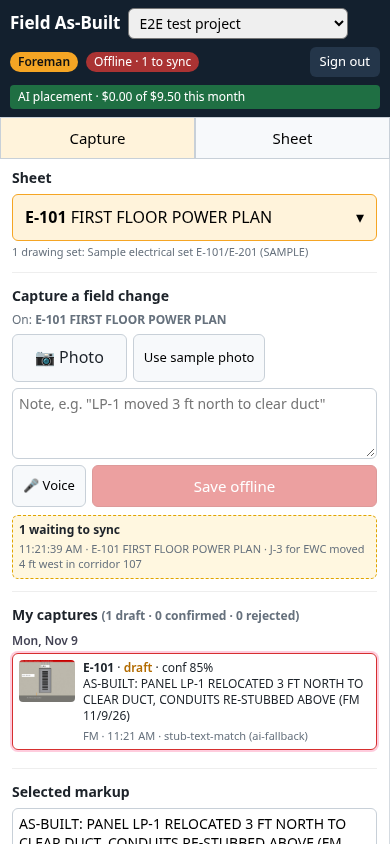
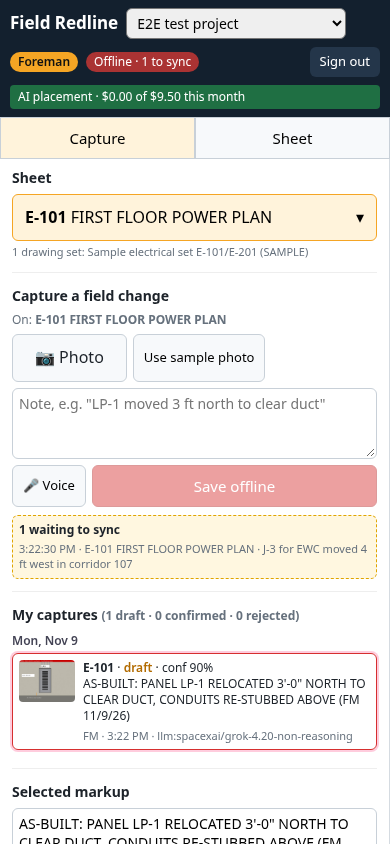
Rename product to Field Redline (UI, titles, meta, sample/demo assets, export labels, docs); infra ids unchanged

diff --git a/app/src/Landing.jsx b/app/src/Landing.jsx
@@ -35,14 +35,14 @@ export default function Landing() {
   return (
     <div className="lp">
       <nav className="lp-nav">
-        <div className="brand">Field As-Built</div>
+        <div className="brand">Field Redline</div>
         <a href="/demo" className="lp-link">Demo</a>
         <a href="#pilot" className="lp-link">Request a pilot</a>
         <a href="/app" className="lp-link signin" data-testid="sign-in-link">Sign in</a>
       </nav>
       <header className="lp-hero">
         <h1>Snap a photo in the field.<br />Get the redline on the drawing.</h1>
-        <p>Field As-Built turns a foreman's photo and a one-line note into a clouded redline, placed on the right sheet and ready for the PE to confirm. Your as-builts stay current all job long, instead of being rebuilt from memory at closeout.</p>
+        <p>Field Redline turns a foreman's photo and a one-line note into a clouded redline, placed on the right sheet and ready for the PE to confirm. Your as-builts stay current all job long, instead of being rebuilt from memory at closeout.</p>
         <div className="lp-cta">
           <a className="btn primary big" href="/demo" data-testid="try-demo">Try the demo</a>
           <a className="btn big" href="#pilot">Request a pilot</a>
@@ -52,7 +52,7 @@ export default function Landing() {
 
       <section className="lp-steps">
         <div><b>1 · Photo + note</b><p>The foreman picks the sheet on their phone, takes a photo, and says or types what changed: "LP-1 moved 3 ft north to clear duct." It works with no signal and syncs later.</p></div>
-        <div><b>2 · Redline drafted on the drawing</b><p>Field As-Built finds the spot on the sheet and drafts a cloud and callout. Nothing hits the record set until a PE drags it into place and confirms.</p></div>
+        <div><b>2 · Redline drafted on the drawing</b><p>Field Redline finds the spot on the sheet and drafts a cloud and callout. Nothing hits the record set until a PE drags it into place and confirms.</p></div>
         <div><b>3 · Continuous as-builts</b><p>Export the full set or a single sheet as a PDF with real annotations, plus a markup log grouped by capture date and a CSV. Closeout is a download, not a scramble.</p></div>
       </section>
 
@@ -76,7 +76,7 @@ export default function Landing() {
         <p className="muted">Pilots run on one active project. We load your current drawing set and your field team starts capturing the same week.</p>
         <PilotForm />
       </section>
-      <footer className="lp-foot muted small">© 2026 Field As-Built · <a href="/demo">Demo</a> · <a href="/app">Sign in</a></footer>
+      <footer className="lp-foot muted small">© 2026 Field Redline · <a href="/demo">Demo</a> · <a href="/app">Sign in</a></footer>
     </div>
   );
 }

diff --git a/app/server/exportPdf.js b/app/server/exportPdf.js
@@ -88,7 +88,7 @@ export async function exportMarkupsPdf(pdfBytes, markups, opts = {}) {
     if (opts.pages && !opts.pages.includes(m.page)) continue;
     const c = m.cloud, co = m.callout; const bump = Math.max(5, Math.min(12, Math.min(c.w, c.h) / 6));
     const now = pdfDate(new Date(m.confirmedAt || m.createdAt || Date.now()));
-    const author = m.author || (who(opts.people, m.capturedBy) ? `${who(opts.people, m.capturedBy)} (Field As-Built)` : 'Field As-Built');
+    const author = m.author || (who(opts.people, m.capturedBy) ? `${who(opts.people, m.capturedBy)} (Field Redline)` : 'Field Redline');
     const capDay = dayKey(m.capturedAt || m.createdAt, opts.tz || 'America/New_York');
     const status = m.status === 'confirmed' ? 'Confirmed' : m.status === 'rejected' ? 'Rejected' : 'Draft';
     // --- Cloud polygon
@@ -159,6 +159,6 @@ export async function exportMarkupsPdf(pdfBytes, markups, opts = {}) {
   if (opts.log) await addLogPages(doc, markups, { tz: opts.tz || 'America/New_York', people: opts.people, title: opts.title || 'As-built record set', scopeLabel: opts.scopeLabel || 'Full set' });
   if (opts.title) doc.setSubject(opts.title);
   doc.setModificationDate(new Date());
-  doc.setProducer('Field As-Built prototype (pdf-lib)');
+  doc.setProducer('Field Redline prototype (pdf-lib)');
   return { bytes: await doc.save(), count };
 }

diff --git a/app/src/App.jsx b/app/src/App.jsx
@@ -40,7 +40,7 @@ function Login() {
   return (
     <div className="login">
       <form onSubmit={go} data-testid="login-form">
-        <div className="brand big">Field As-Built</div>
+        <div className="brand big">Field Redline</div>
         <div className="muted small">Sign in. Accounts are invite-only; ask your admin for access.</div>
         <input type="email" autoComplete="username" placeholder="Email" value={email} onChange={(e) => setEmail(e.target.value)} data-testid="login-email" required />
         <input type="password" autoComplete="current-password" placeholder="Password" value={pw} onChange={(e) => setPw(e.target.value)} data-testid="login-password" required />
@@ -200,7 +200,7 @@ function Workspace({ user }) {
   return (
     <div className="app">
       <header>
-        <div className="brand">Field As-Built</div>
+        <div className="brand">Field Redline</div>
         <select className="projsel" value={pid || ''} onChange={(e) => setPid(e.target.value)} data-testid="project-select">
           {!me?.projects?.length && <option value="">No projects</option>}
           {me?.projects?.map((p) => <option key={p.id} value={p.id}>{p.name}</option>)}

diff --git a/app/src/main.jsx b/app/src/main.jsx
@@ -9,8 +9,8 @@ const p = location.pathname.replace(/\/+$/, '') || '/';
 const isApp = p === '/app' || p.startsWith('/app/');
 if (isApp) { // the signed-in app is never indexed; public pages (/ and /demo) are
   const m = document.createElement('meta'); m.name = 'robots'; m.content = 'noindex, nofollow, noarchive'; document.head.appendChild(m);
-  document.title = 'Field As-Built — sign in';
-} else if (p === '/demo') document.title = 'Field As-Built — live demo (sample data)';
+  document.title = 'Field Redline — sign in';
+} else if (p === '/demo') document.title = 'Field Redline — live demo (sample data)';
 const Page = isApp ? App : p === '/demo' ? Demo : Landing;
 createRoot(document.getElementById('root')).render(<Suspense fallback={<div className="empty">Loading…</div>}><Page /></Suspense>);
 if ('serviceWorker' in navigator && location.hostname !== 'localhost' && isApp) navigator.serviceWorker.register('/sw.js').catch(() => {});

diff --git a/app/index.html b/app/index.html
@@ -1,5 +1,5 @@
 <!doctype html>
 <html lang="en"><head><meta charset="UTF-8" /><meta name="viewport" content="width=device-width, initial-scale=1, viewport-fit=cover" />
 <meta name="theme-color" content="#13202e" />
-<title>Field As-Built: photo to redline, continuous as-builts</title><meta name="description" content="Field As-Built turns a field photo and a one-line note into a redline on the right drawing sheet, so as-builts stay current all job long. Built for electrical subs, MEP and civil subs, and GCs." /></head>
+<title>Field Redline: photo to redline, continuous as-builts</title><meta name="description" content="Field Redline turns a field photo and a one-line note into a redline on the right drawing sheet, so as-builts stay current all job long. Built for electrical subs, MEP and civil subs, and GCs." /></head>
 <body><div id="root"></div><script type="module" src="/src/main.jsx"></script></body></html>

diff --git a/app/server/app.js b/app/server/app.js
@@ -157,7 +157,7 @@ export function createApp() {
       if (mtd == null) { mode = 'stub'; stubReason = 'spend-check-failed'; stubNote = 'Could not read AI spend, so AI is paused for safety;'; }
       else if (mtd >= SPEND_CAP_USD) { mode = 'stub'; stubReason = 'monthly-cap'; stubNote = `AI paused: month-to-date AI spend $${mtd.toFixed(2)} reached the $${SPEND_CAP_USD.toFixed(2)} cap;`; }
     }
-    const t0 = Date.now(); const initials = (q.user.user_metadata?.initials || 'FAB').slice(0, 4);
+    const t0 = Date.now(); const initials = (q.user.user_metadata?.initials || 'FR').slice(0, 4);
     const s = await suggest({ sheet, note, photoBytes: q.file.buffer, photoMime: q.file.mimetype, initials, mode, provider, stubReason, stubNote });
     if (mode === 'llm') {
       const u = s.usage;

diff --git a/app/server/index.js b/app/server/index.js
@@ -10,4 +10,4 @@ const PORT = +process.env.PORT || 4317;
 const app = createApp();
 const dist = path.join(ROOT, 'dist');
 if (fs.existsSync(dist)) { app.use(express.static(dist)); app.get(/^\/(?!api).*/, (_q, r) => r.sendFile(path.join(dist, 'index.html'))); }
-app.listen(PORT, '0.0.0.0', () => console.log(`Field As-Built prototype on http://localhost:${PORT} (placement: ${placementMode()}, store: ${process.env.SUPABASE_URL ? 'supabase' : 'json'})`));
+app.listen(PORT, '0.0.0.0', () => console.log(`Field Redline prototype on http://localhost:${PORT} (placement: ${placementMode()}, store: ${process.env.SUPABASE_URL ? 'supabase' : 'json'})`));

diff --git a/app/src/Demo.jsx b/app/src/Demo.jsx
@@ -40,7 +40,7 @@ export default function Demo() {
   return (
     <div className="app demo">
       <header>
-        <a className="brand" href="/">Field As-Built</a>
+        <a className="brand" href="/">Field Redline</a>
         <span className="rolechip">LIVE DEMO · sample data</span>
         <span className="small">{d.project.name}</span>
         <a className="hdrbtn right btn" href="/#pilot" data-testid="demo-pilot">Request a pilot</a>

diff --git a/scripts/make_sample.py b/scripts/make_sample.py
@@ -101,7 +101,7 @@ def lighting(c):
     c.setFont("Helvetica", 8); c.drawString(80, 150, "LIGHTING CONTROL: OCC SENSOR IN EACH ROOM. EMERGENCY FIXTURES ON CKT LP-1/20.")
 
 pdf = canvas.Canvas(os.path.join(OUT, "sample-electrical-plan-E101-E201.pdf"), pagesize=(W, H))
-pdf.setTitle("SAMPLE electrical plans (fake) - Field As-Built demo"); pdf.setAuthor("Field As-Built demo generator")
+pdf.setTitle("SAMPLE electrical plans (fake) - Field Redline demo"); pdf.setAuthor("Field Redline demo generator")
 power(pdf); pdf.showPage(); lighting(pdf); pdf.showPage(); pdf.save()
 
 # Fake "field photo": stylized electrical room wall with a panel, labeled SAMPLE
@@ -127,6 +127,6 @@ d.rectangle([60, 300, 330, 360], fill=(255, 255, 255)); d.text((72, 312), "ELEC 
 d.line([(380, 760), (380, 700)], fill=(255, 140, 0), width=4); d.text((150, 790), "~3'-0\" from orig. location", fill=(255, 255, 255), font=fs)
 img = img.filter(ImageFilter.GaussianBlur(0.8))
 d = ImageDraw.Draw(img)
-d.rectangle([0, 0, 1200, 44], fill=(200, 0, 0)); d.text((14, 6), "SAMPLE FIELD PHOTO (synthetic) - Field As-Built demo", fill=(255, 255, 255), font=fs)
+d.rectangle([0, 0, 1200, 44], fill=(200, 0, 0)); d.text((14, 6), "SAMPLE FIELD PHOTO (synthetic) - Field Redline demo", fill=(255, 255, 255), font=fs)
 img.save(os.path.join(OUT, "sample-field-photo-LP1.jpg"), quality=85)
 print("ok")

diff --git a/app/scripts/verify_e2e.py b/app/scripts/verify_e2e.py
@@ -1,4 +1,4 @@
-"""End-to-end check of Field As-Built through the real UI (headless Chrome), as real signed-in users.
+"""End-to-end check of Field Redline through the real UI (headless Chrome), as real signed-in users.
  auth gate + noindex + invite-only signup -> PE: project + sample set -> Foreman (phone viewport): sheet picker,
  capture (AI or stub per server config), offline capture queued in IndexedDB then synced -> role checks ->
  PE: drag + confirm / reject -> export full-set PDF, per-sheet PDF, markup CSV -> verify annotations + log page.

diff --git a/docs/INFRA.md b/docs/INFRA.md
@@ -1,22 +1,22 @@
-# Field As-Built — provisioned infra
+# Field Redline — provisioned infra
 
-_Last updated 9 Nov 2026, 11:25 AM EST. Running cost: $0/mo. Model spend is approved up to $10/mo, but $0.00 has been spent so far. Secrets are not in this file or the repo. They live in Vercel (sensitive env vars) and in `/workspace/field-as-built/app/data/secrets/` and `/workspace/field-as-built/.env.local` on the box (both gitignored)._
+_Last updated 9 Nov 2026, 3:30 PM EST. **Product renamed to Field Redline** (9 Nov, 3:17 PM). Infra identifiers deliberately keep the old slug: Vercel project `field-as-built`, URL field-as-built.vercel.app, Supabase project name `field-as-built`, Origin repo `matthew-fronczak/field-as-built`, Stripe product metadata `app=field-as-built`, env vars `FAB_*`, and the package name. Running cost: $0/mo. Model spend is approved up to $10/mo, but $0.00 has been spent so far. Secrets are not in this file or the repo. They live in Vercel (sensitive env vars) and in `/workspace/field-as-built/app/data/secrets/` and `/workspace/field-as-built/.env.local` on the box (both gitignored)._
 
 | Resource | ID / location | Notes |
 |---|---|---|
 | **Public website** | https://field-as-built.vercel.app (landing) · https://field-as-built.vercel.app/demo (read-only demo) | No account needed, and both pages can be indexed by search engines. The landing page has a "Request a pilot" form. The demo is static files (`public/demo/*`, built by `app/scripts/build_demo.mjs` from the SAMPLE E-101/E-201 set only). Its "Try a capture" runs text matching in the visitor's browser: no API, DB, storage or AI calls |
 | **App (private)** | https://field-as-built.vercel.app/app | **Login required.** Supabase Auth email/password, invite-only. Every `/api` route except `public-config`, `leads` (insert-only) and the signed Stripe webhook returns 401 without a session. `/app` and `/api/*` send `X-Robots-Tag: noindex` and `/app` adds a noindex meta tag. `robots.txt` disallows `/app` and `/api/`. The team alias and per-deployment URLs sit behind Vercel login |
 | Leads | table `public.leads` (`supabase/migrations/20261109161000_leads.sql`) | RLS: anon/authenticated **insert only**. Nobody can read through the API (anon gets 401, signed-in users 403); read leads in the Supabase dashboard / SQL editor. Rate limits: DB trigger caps 3 per email per hour and 30 site-wide per 10 min; the API caps 20 accepted per IP per hour (per instance) and has a honeypot field. Rows with `source='e2e'` or a company of "E2E (automated test)" come from the test |
-| Vercel project `field-as-built` | `prj_WexrryY5Qa2IUWY2LbXEO35NfywR`, team `gc-desk-ai` (`team_vwGVMFO5MbAhq0CqGTy98PjC`, Hobby) | Separate from GC Desk AI (`prj_EjWzKVglwNOPYxvmSHQlmma8R14I`, untouched). Deployed by file upload (no Git link). Latest prod deployment `dpl_342mg9DwQA7VTmA4VcoX8W1Sj3h3` |
+| Vercel project `field-as-built` | `prj_WexrryY5Qa2IUWY2LbXEO35NfywR`, team `gc-desk-ai` (`team_vwGVMFO5MbAhq0CqGTy98PjC`, Hobby) | Separate from GC Desk AI (`prj_EjWzKVglwNOPYxvmSHQlmma8R14I`, untouched). Deployed by file upload (no Git link). Latest prod deployment `dpl_8kkof6dZgCKpS5jE1SngGEnS2B3A` |
 | Vercel env vars (field-as-built only) | `SUPABASE_URL`, `SUPABASE_PUBLISHABLE_KEY`, `FAB_PLACEMENT=ai`, `STRIPE_WEBHOOK_SECRET` (sensitive). Leftover and unused: `FAB_DEMO_*` (the demo user is now banned) | AI goes through Vercel AI Gateway with the deployment's **OIDC token**. There's no AI Gateway API key and no `XAI_API_KEY` |
 | AI placement | model `spacexai/grok-4.20-non-reasoning` via `https://ai-gateway.vercel.sh/v1` | **Blocked right now:** the Gateway returns 403 "Free tier users do not have access to this model" until paid Gateway credits exist (see Queued costs). The app falls back to text-match placement automatically, and the failed calls are logged at $0 |
 | Spend guard | table `public.ai_usage`, function `public.ai_month_spend()` | Every model call logs tokens, the estimated cost (from token usage at Gateway list price: $1.25/M in, $0.20/M cached, $2.50/M out), the Gateway-reported cost, ok/error, and latency. Before each call the server sums month-to-date spend across all orgs. At **$9.50** or more, or if spend can't be read (fails closed), the capture falls back to stub placement with a note, and the header reads "AI paused". `max_tokens` is 400 per call |
 | Gateway-level budget | — | **Not set.** The Vercel connector has no AI Gateway budget or alert tools. Set it by hand: Vercel dashboard → gc-desk-ai → AI Gateway → budget $10/mo |
 | Supabase project `field-as-built` | ref `fvopgrpadcwzucyrzbuk`, org `fbnzgluxdjcfrklwgnxs` (Free), us-east-1 | Migrations in `supabase/migrations/`. RLS on all tables, with roles enforced in RLS: foreman = capture and edit own drafts; PE/admin = confirm/reject, add drawing sets, create projects, export. The API checks the same rules and returns 403 |
-| Invite-only auth | `private.invites` plus triggers on `auth.users` | A DB trigger rejects any signup whose email isn't invited ("Field As-Built is invite-only"). Invited users get their membership and profile automatically. To invite someone: `insert into private.invites(email, org_id, role) values (...)`, then create the user (dashboard "Invite user" or SQL) |
-| Accounts | org `0f1e0000-…a001` "Field As-Built Pilot" | `matfron13-v0nchn@mail.grokbot.com` (admin, Matthew), `e2e-pe@field-as-built.app` (pe), `e2e-foreman@field-as-built.app` (foreman). Passwords: `app/data/secrets/accounts.json` / `matthew_login.txt`. Old `demo@field-as-built.app` is banned and has no membership |
+| Invite-only auth | `private.invites` plus triggers on `auth.users` | A DB trigger rejects any signup whose email isn't invited ("Field Redline is invite-only"). Invited users get their membership and profile automatically. To invite someone: `insert into private.invites(email, org_id, role) values (...)`, then create the user (dashboard "Invite user" or SQL) |
+| Accounts | org `0f1e0000-…a001` "Field Redline Pilot" | `matfron13-v0nchn@mail.grokbot.com` (admin, Matthew), `e2e-pe@field-as-built.app` (pe), `e2e-foreman@field-as-built.app` (foreman). Passwords: `app/data/secrets/accounts.json` / `matthew_login.txt`. Old `demo@field-as-built.app` is banned and has no membership |
 | Supabase Storage | private buckets `drawings`, `photos`, `audio`, `exports` | Paths `<org_id>/<project_id>/{drawings,photos}/...`. Member-only policies. The server reads them as the signed-in user, never with a service key |
-| Stripe (TEST mode, `acct_1UPneEI4oNP3GdLA`) | `prod_Vb5O09sTUMKmC7` "Field As-Built – Project (monthly)", `price_1UZtDNI4oNP3GdLAsm20cFfs` ($450/mo placeholder); `prod_Vb5Onqs8dOG5AN` "Field As-Built – Pilot", `price_1UZtDPI4oNP3GdLAdL9PaAC5` ($1,000 one-time placeholder) | |
+| Stripe (TEST mode, `acct_1UPneEI4oNP3GdLA`) | `prod_Vb5O09sTUMKmC7` "Field Redline – Project (monthly)", `price_1UZtDNI4oNP3GdLAsm20cFfs` ($450/mo placeholder); `prod_Vb5Onqs8dOG5AN` "Field Redline – Pilot", `price_1UZtDPI4oNP3GdLAdL9PaAC5` ($1,000 one-time placeholder) | |
 | Stripe webhook | `we_1UZtLgI4oNP3GdLA6pFUcbV9` → https://field-as-built.vercel.app/api/stripe/webhook | Signature-verified and outside the login gate (Stripe can't log in). Unsigned posts get 400 |
 | Origin repo | https://cursor.com/codebase/matthew-fronczak/field-as-built (`r_01m70a649het3rexz4ffksc7rg`, private) | Still empty. The box has no Origin git credentials. Local commits are on `main` in `/workspace/field-as-built` |
 

diff --git a/docs/MVP_SPEC.md b/docs/MVP_SPEC.md
@@ -1,4 +1,4 @@
-# Field As-Built — MVP spec
+# Field Redline — MVP spec
 
 _Status: approved to build (Matthew, 9 Nov 2026). Local prototype only; **no cloud infra created yet** (see §8, needs Civil SaaS Manager sign-off, and Matthew's for anything that costs money)._
 Validation report: https://cursor.com/canvas/store-6658e47e-5890-4ddf-9b2c-759069c15ecb/37684d8b-dbd2-40b9-a686-7d636755c450
@@ -113,7 +113,7 @@ All named `field-as-built`. Separate from other bots' projects so data, keys, an
 | 4 | Vercel project | `field-as-built`, Next.js, linked to the repo; preview deploys on PRs; default URL `field-as-built.vercel.app` | $0 incremental on an existing Pro team (Pro is $20/user/mo if a team is needed; Hobby is non-commercial only) |
 | 5 | Vercel env vars | `NEXT_PUBLIC_SUPABASE_URL`, `NEXT_PUBLIC_SUPABASE_ANON_KEY`, `SUPABASE_SERVICE_ROLE_KEY`, `AI_GATEWAY_API_KEY` (or OIDC), `STRIPE_SECRET_KEY`, `STRIPE_WEBHOOK_SECRET`, `FAB_VISION_MODEL` | $0 |
 | 6 | Vercel AI Gateway | Used from the `field-as-built` project; budget alert at $25/mo | Pass-through model pricing. grok-4.20: $1.25/M input, $2.50/M output → ≈ $0.004/capture on the sample sheet, ≈ $0.02–0.05 on dense real sheets (10–30k text tokens). 1,000 captures/mo ≈ $5–50. |
-| 7 | Stripe products (test mode first) | `Field As-Built – Project (monthly)` (hypothesis $300–600/active project/mo) and `Field As-Built – Pilot (one-time)` (optional); prices in USD; metadata `app=field-as-built` | $0 fixed; 2.9% + 30¢ per card charge, plus Stripe Billing 0.7% of recurring volume |
+| 7 | Stripe products (test mode first) | `Field Redline – Project (monthly)` (hypothesis $300–600/active project/mo) and `Field Redline – Pilot (one-time)` (optional); prices in USD; metadata `app=field-as-built` | $0 fixed; 2.9% + 30¢ per card charge, plus Stripe Billing 0.7% of recurring volume |
 | 8 | Stripe webhook endpoint (own) | `https://field-as-built.vercel.app/api/stripe/webhook`, events `checkout.session.completed`, `customer.subscription.created/updated/deleted`, `invoice.paid`, `invoice.payment_failed`; own signing secret | $0 |
 | 9 | Domain (optional, later) | e.g. `fieldasbuilt.com` / `.app`, only at public launch | ~$15–25/yr |
 
